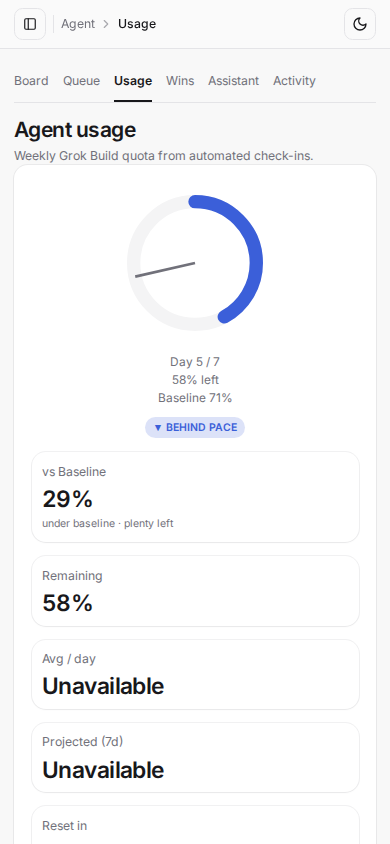
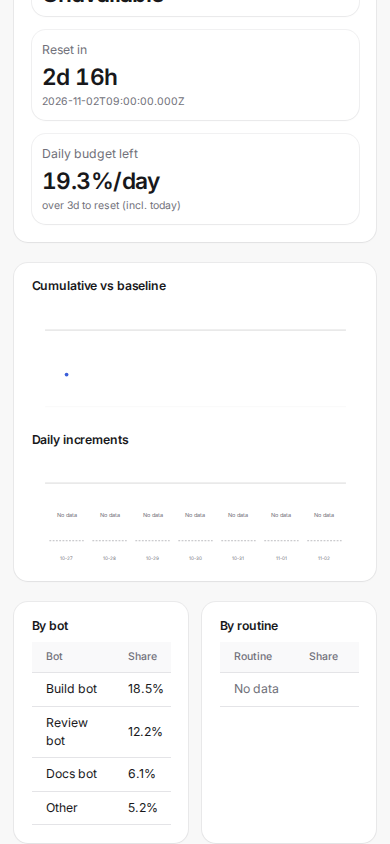
docs(ui): retake usage 1440 restyle shots with solid cap visible
Full-page usage captures include the line chart after verifying line-cap
stroke-dasharray is none. Align usage page CSS with solid cap styling.

diff --git a/apps/server/scripts/capture-restyle-screenshots.ts b/apps/server/scripts/capture-restyle-screenshots.ts
@@ -25,15 +25,23 @@ const repoRoot = join(serverDir, "../..");
 const mode = process.argv.includes("--before") ? "before" : "after";
 const outRoot = join(repoRoot, "docs/screenshots/restyle", mode);
 
-type Shot = { name: string; path: string; marker: string; viewport: { width: number; height: number }; theme?: "light" | "dark"; prepare?: (page: Page) => Promise<void> };
+type Shot = {
+  name: string;
+  path: string;
+  marker: string;
+  viewport: { width: number; height: number };
+  theme?: "light" | "dark";
+  fullPage?: boolean;
+  prepare?: (page: Page) => Promise<void>;
+};
 
 const SHOTS: Shot[] = [
   { name: "dashboard-1440-light", path: "/", marker: "Dashboard", viewport: { width: 1440, height: 900 }, prepare: async (p) => { await p.waitForSelector("#dashboard-grid", { timeout: 20_000 }); } },
   { name: "dashboard-1440-dark", path: "/", marker: "Dashboard", viewport: { width: 1440, height: 900 }, theme: "dark", prepare: async (p) => { await p.evaluate(() => { document.documentElement.classList.add("dark"); localStorage.setItem("cc-theme", "dark"); }); await p.waitForSelector("#dashboard-grid", { timeout: 20_000 }); } },
   { name: "dashboard-mobile-light", path: "/", marker: "Dashboard", viewport: { width: 390, height: 844 }, prepare: async (p) => { await p.waitForSelector("#dashboard-grid", { timeout: 20_000 }); } },
   { name: "dashboard-mobile-dark", path: "/", marker: "Dashboard", viewport: { width: 390, height: 844 }, theme: "dark", prepare: async (p) => { await p.evaluate(() => { document.documentElement.classList.add("dark"); localStorage.setItem("cc-theme", "dark"); }); await p.waitForSelector("#dashboard-grid", { timeout: 20_000 }); } },
-  { name: "agents-usage-1440-light", path: "/agent?view=usage", marker: "Agent usage", viewport: { width: 1440, height: 900 }, prepare: waitUsageReady },
-  { name: "agents-usage-1440-dark", path: "/agent?view=usage", marker: "Agent usage", viewport: { width: 1440, height: 900 }, theme: "dark", prepare: waitUsageReadyDark },
+  { name: "agents-usage-1440-light", path: "/agent?view=usage", marker: "Agent usage", viewport: { width: 1440, height: 900 }, fullPage: true, prepare: waitUsageReady },
+  { name: "agents-usage-1440-dark", path: "/agent?view=usage", marker: "Agent usage", viewport: { width: 1440, height: 900 }, theme: "dark", fullPage: true, prepare: waitUsageReadyDark },
   { name: "agents-usage-mobile-light", path: "/agent?view=usage", marker: "Agent usage", viewport: { width: 390, height: 844 }, prepare: waitUsageReady },
   { name: "agents-usage-mobile-dark", path: "/agent?view=usage", marker: "Agent usage", viewport: { width: 390, height: 844 }, theme: "dark", prepare: waitUsageReadyDark },
   { name: "notes-1440-light", path: "/notes", marker: "Notes", viewport: { width: 1440, height: 900 }, prepare: async (p) => { await p.waitForSelector("#knowledge-note-list", { timeout: 20_000 }); } },
@@ -48,6 +56,7 @@ async function waitUsageReady(p: Page) {
     if (!cap) return false;
     return cap.getAttribute("stroke-dasharray") === "none";
   }, undefined, { timeout: 10_000 });
+  await p.locator(".usage-charts").scrollIntoViewIfNeeded();
 }
 async function waitUsageReadyDark(p: Page) {
   await p.evaluate(() => { document.documentElement.classList.add("dark"); localStorage.setItem("cc-theme", "dark"); });
@@ -174,7 +183,7 @@ async function main() {
         if (!dark) throw new Error(`not dark: ${shot.name}`);
       }
       const outPath = join(outRoot, `${shot.name}.png`);
-      await page.screenshot({ path: outPath, fullPage: false });
+      await page.screenshot({ path: outPath, fullPage: shot.fullPage ?? false });
       console.log("wrote", outPath);
       await page.close();
     }

diff --git a/apps/server/src/ui/agents-usage-page.ts b/apps/server/src/ui/agents-usage-page.ts
@@ -24,7 +24,7 @@ const usageCss = `
 .bar-under{fill:var(--chart-1)}
 .line-usage{stroke:var(--chart-1);fill:none;stroke-width:2}
 .line-baseline{stroke:var(--chart-2);fill:none;stroke-width:1.5;stroke-dasharray:4 3}
-.line-cap{stroke:var(--foreground);stroke-width:1;opacity:.35}
+.line-cap{stroke:var(--foreground);stroke-width:1;stroke-dasharray:none;opacity:.35}
 .usage-stat-card .stat-value{font-size:1.625rem;font-variant-numeric:tabular-nums}
 .usage-stat-card .stat-hint{white-space:nowrap}
 `;

diff --git a/docs/screenshots/restyle/after/README.md b/docs/screenshots/restyle/after/README.md
@@ -1,4 +1,4 @@
 # Restyle after screenshots
 
-Captured at 2026-10-30T15:52:00.159Z UTC.
-Git: `3d4c3d7d2748953a03076ceb13108f89d7e27c01`
+Captured at 2026-10-30T16:35:03.671Z UTC.
+Git: `0fdb8b3597d954b040cc13263a648971000ca3b9`
